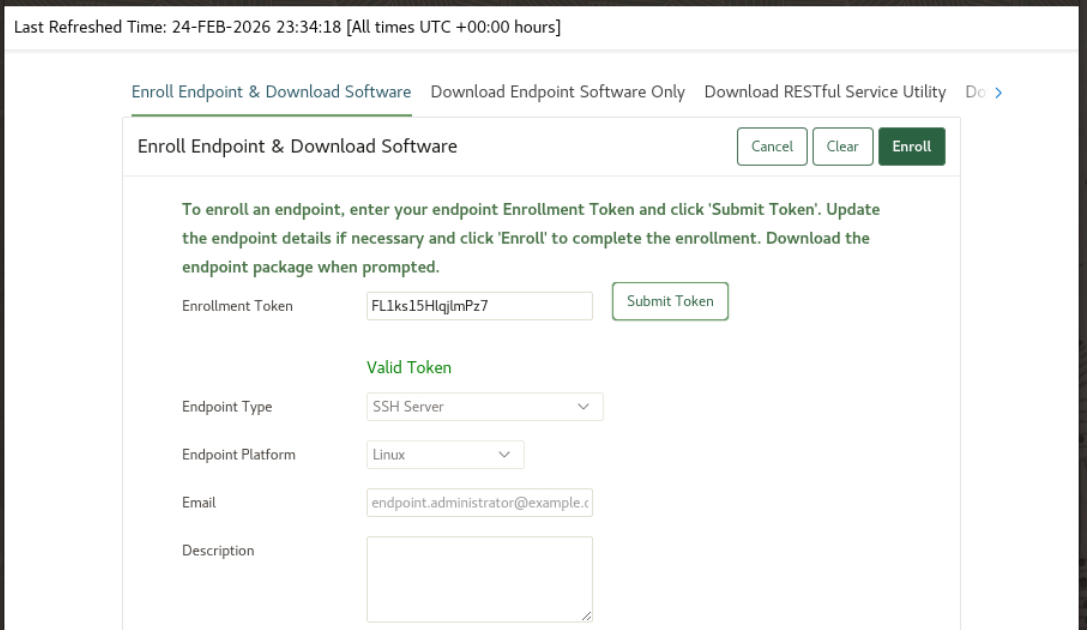
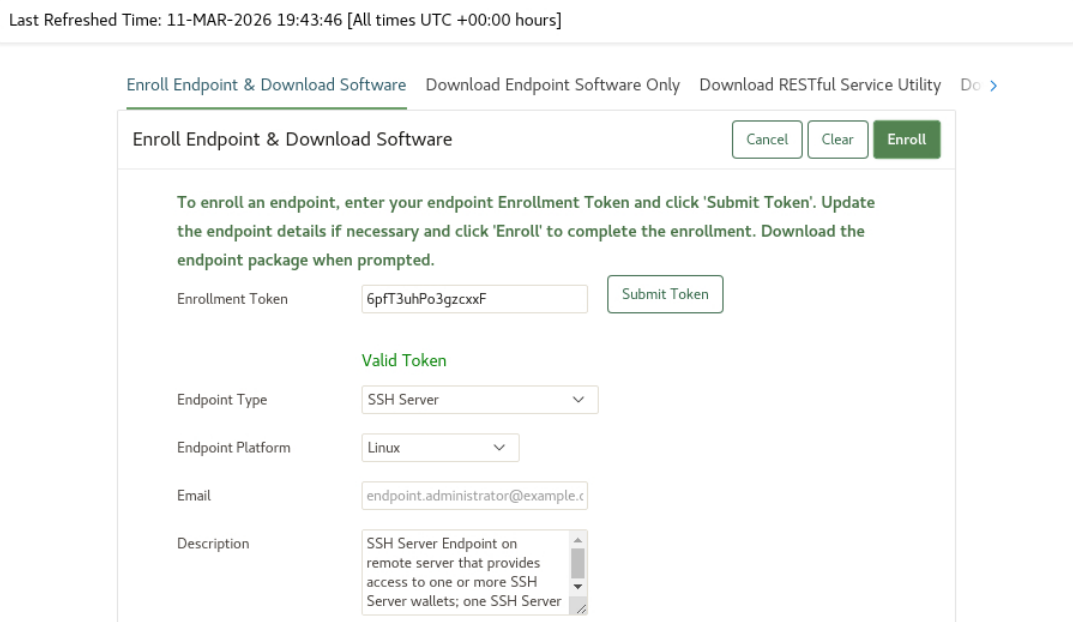
minor corrections

diff --git a/database/advanced/key-vault_ssh/key-vault_ssh.md b/database/advanced/key-vault_ssh/key-vault_ssh.md
@@ -368,15 +368,16 @@ In this lab, we will introduce remote server access controls by centrally managi
 
     - From now on, the dbseclab SSH Server endpoint has only **Read Only** privileges on the SSH Server wallet `opc_at_dbseclab`
 
-7. Go back to **your terminal session on SSH Server** (DBSeclab VM) where the owner of the remote server removes the administrator's public keys and the `authorized_keys` file.
+7. Go back to **your terminal session on SSH Server** (DBSeclab VM) where the owner of the remote server switches to the `opc` user and removes the administrator's public keys and the `authorized_keys` file:
 
-    - Move the `authorized_keys` file as well as all **SSH keys** into a hidden backup directory, leaving only the `known_hosts` file intact:
+    - Move the `authorized_keys` file as well as **all SSH keys** into a hidden backup directory, leaving only the `known_hosts` file intact:
 
         ```
         <copy>
-        mkdir -pvm700 /home/opc/.ssh/.backup
-        sudo mv /home/opc/.ssh/!(known_hosts) /home/opc/.ssh/.backup
-        tree -n /home/opc/.ssh/
+        sudo su - opc
+        sudo mkdir -pvm700 ~/.ssh/.backup
+        sudo mv ~/home/opc~/.ssh/!(known_hosts) ~/.ssh/.backup
+        sudo tree -n ~/.ssh/
         </copy>
         ```
 
